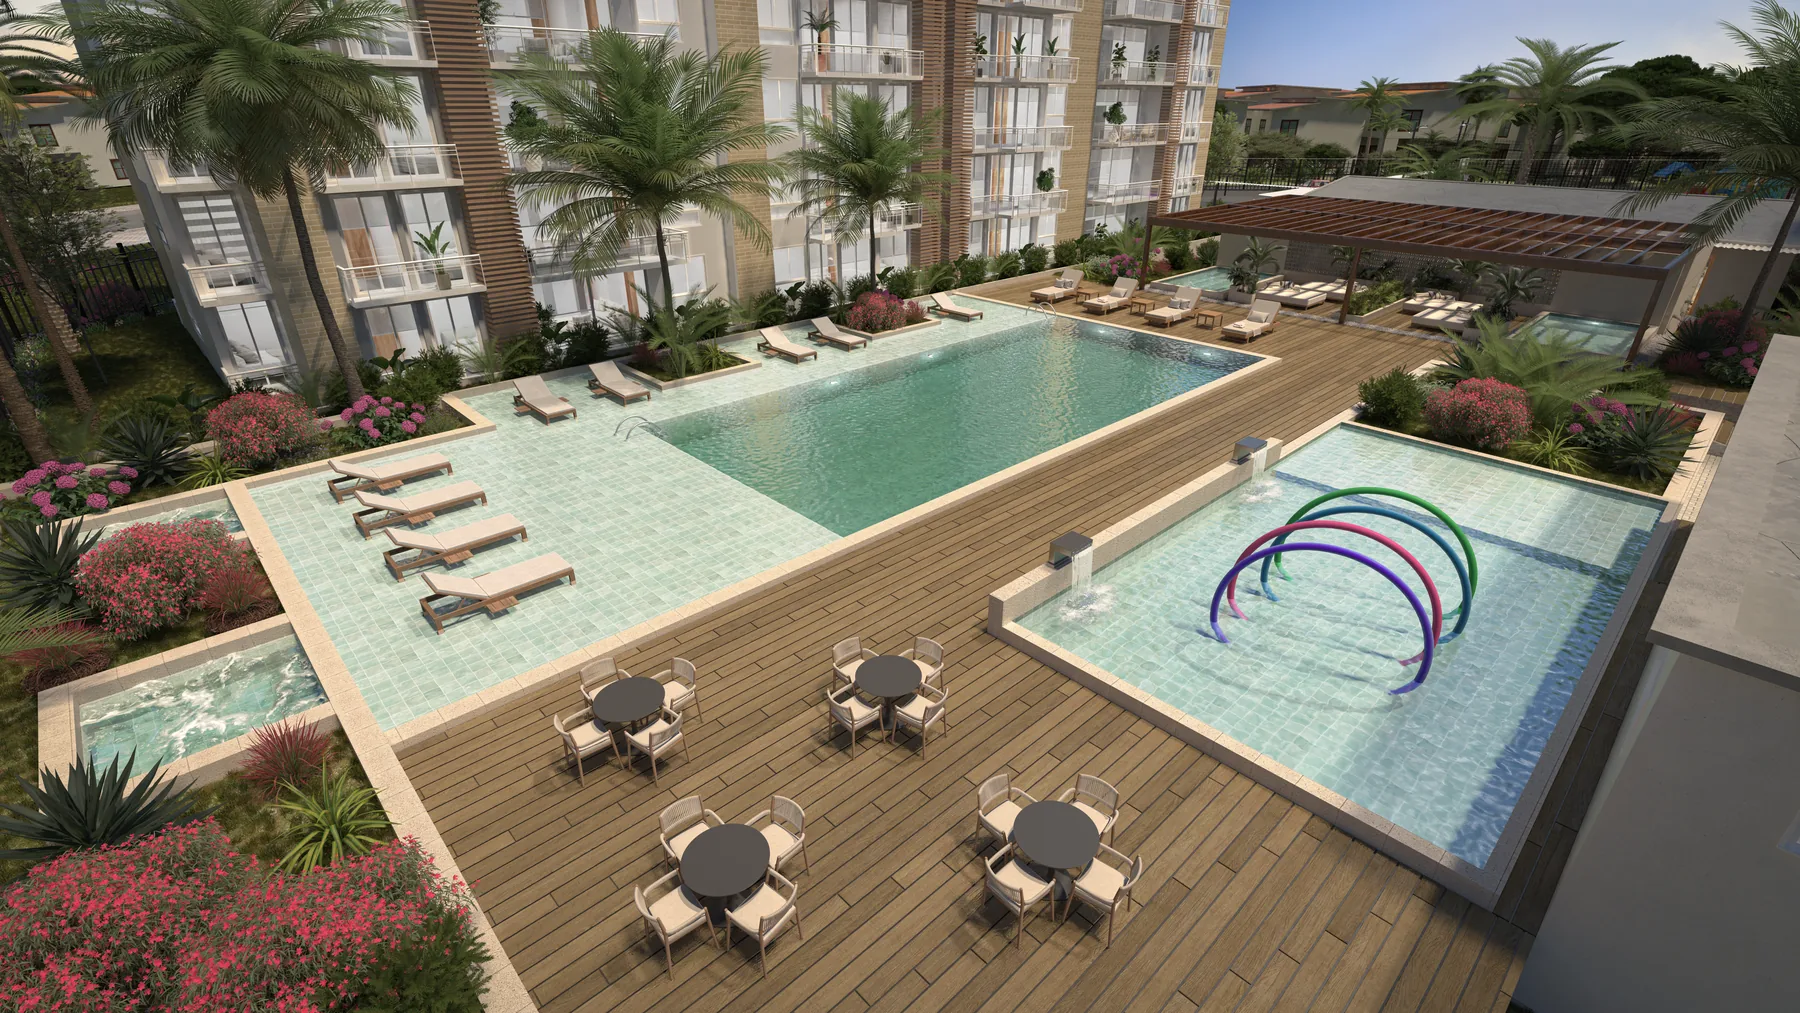
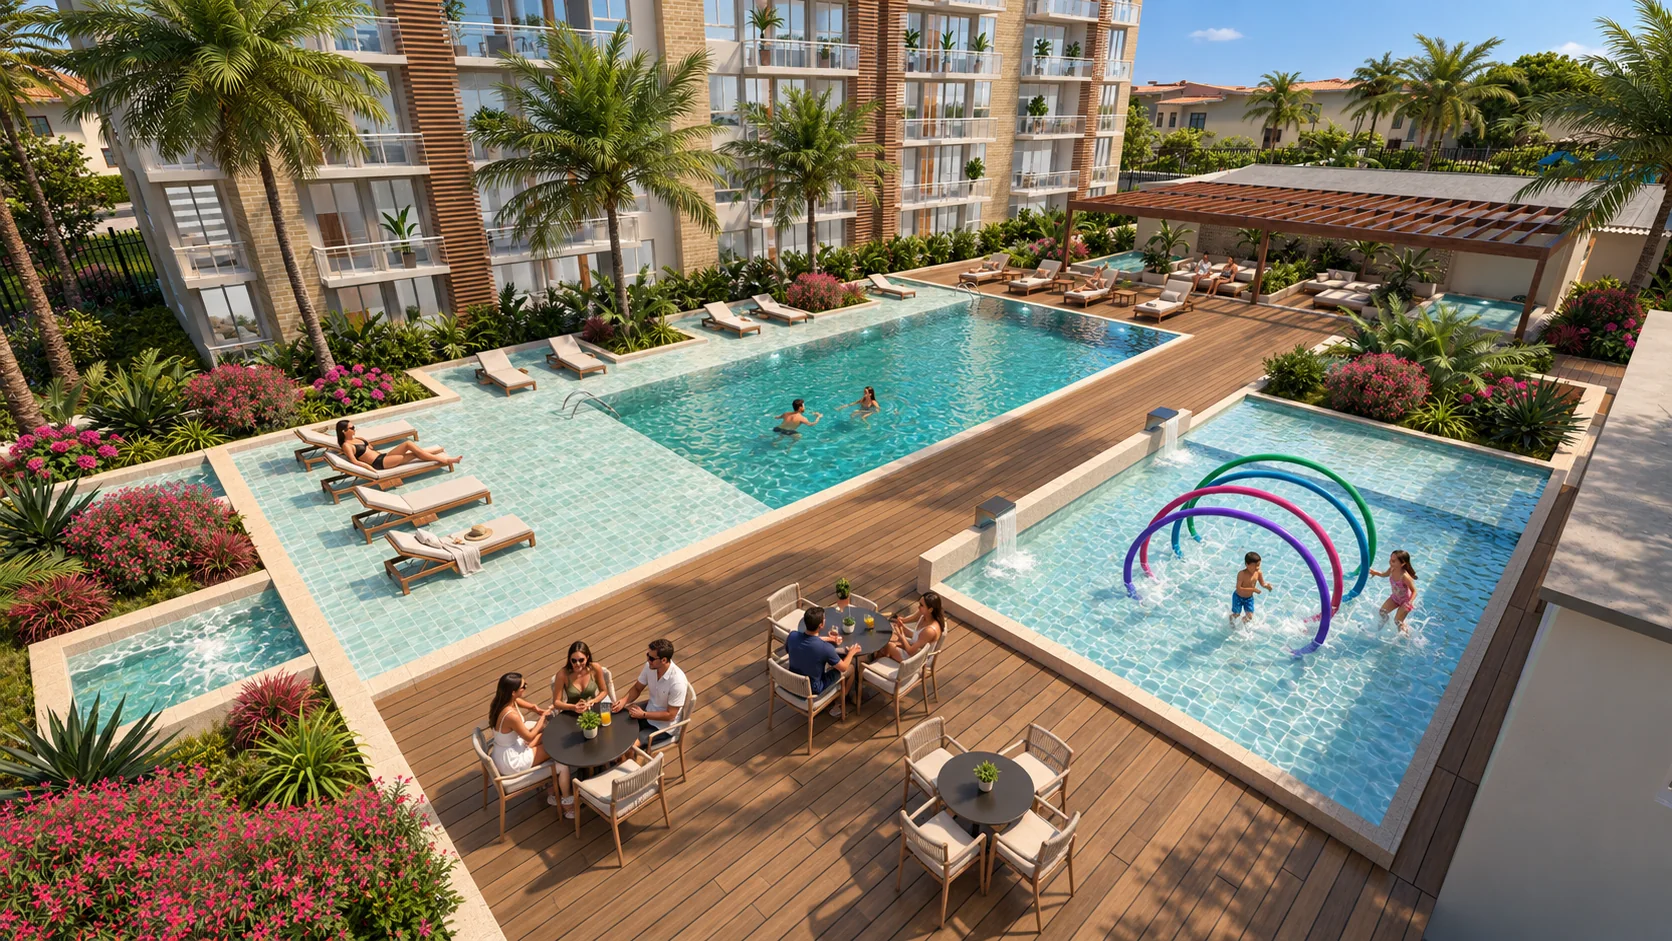
Divertido: render nuevo de zonas húmedas e íconos propios de sus cuatro zonas
Claude-Session: https://claude.ai/code/session_01DbQSkjawgEFXXi1NfzF7dw

diff --git a/index.html b/index.html
@@ -100,7 +100,7 @@
   <link rel="preconnect" href="https://fonts.googleapis.com" />
   <link rel="preconnect" href="https://fonts.gstatic.com" crossorigin />
   <link href="https://fonts.googleapis.com/css2?family=Poppins:ital,wght@0,300;0,400;0,500;0,600;0,700;0,800;1,300&display=swap" rel="stylesheet" />
-  <link rel="stylesheet" href="assets/css/styles.css?v=20261004" />
+  <link rel="stylesheet" href="assets/css/styles.css?v=20261004b" />
 </head>
 <body>
 
@@ -362,22 +362,21 @@
             <h3>Zonas húmedas familiares</h3>
             <!-- las zonas del ambiente. Las que tienen render son botones:
                  al tocarlas, el visor muestra la imagen donde aparecen.
-                 Estas cuatro aún no tienen ícono propio y usan el del
-                 ambiente. -->
+                 Los íconos salen de la pieza de marca "Divertido". -->
             <ul class="zdet">
-              <li><button type="button" class="zdet-item" data-zimg="piscinas"><img src="assets/img/icono-divertido.png" alt="" width="132" height="132" loading="lazy" /><span>Piscina Honda</span></button></li>
-              <li><button type="button" class="zdet-item" data-zimg="piscinas"><img src="assets/img/icono-divertido.png" alt="" width="132" height="132" loading="lazy" /><span>Piscina Panda</span></button></li>
-              <li><button type="button" class="zdet-item" data-zimg="piscinas"><img src="assets/img/icono-divertido.png" alt="" width="132" height="132" loading="lazy" /><span>Zona de Asoleadoras</span></button></li>
-              <li><span class="zdet-item"><img src="assets/img/icono-divertido.png" alt="" width="132" height="132" loading="lazy" /><span>Zona de Hamacas</span></span></li>
+              <li><button type="button" class="zdet-item" data-zimg="piscinas"><img src="assets/img/icono-piscina-honda.png" alt="" width="132" height="132" loading="lazy" /><span>Piscina Honda</span></button></li>
+              <li><button type="button" class="zdet-item" data-zimg="piscinas"><img src="assets/img/icono-piscina-panda.png" alt="" width="132" height="132" loading="lazy" /><span>Piscina Panda</span></button></li>
+              <li><button type="button" class="zdet-item" data-zimg="piscinas"><img src="assets/img/icono-asoleadoras.png" alt="" width="132" height="132" loading="lazy" /><span>Zona de Asoleadoras</span></button></li>
+              <li><span class="zdet-item"><img src="assets/img/icono-hamacas.png" alt="" width="132" height="132" loading="lazy" /><span>Zona de Hamacas</span></span></li>
             </ul>
           </div>
           <div class="zviewer" data-zviewer>
             <div class="zviewer-stage">
-              <figure class="zviewer-fig is-shown" data-zfig="piscinas"><img src="assets/img/divertido-1.webp" alt="Piscinas de Cielo con deck en madera, solárium y juegos de agua" width="1800" height="1013" loading="lazy" /><figcaption>Piscinas y zona de asoleadoras</figcaption></figure>
+              <figure class="zviewer-fig is-shown" data-zfig="piscinas"><img src="assets/img/divertido-1.webp" alt="Zonas húmedas de Cielo: piscina con asoleadoras dentro del agua, piscina de niños con arcos de colores, deck en madera con mesas y pérgola, entre palmas y jardines" width="1672" height="941" loading="lazy" /><figcaption>Piscinas y zona de asoleadoras</figcaption></figure>
               <figure class="zviewer-fig" data-zfig="aerea"><img src="assets/img/divertido-2.webp" alt="Vista aérea de las zonas húmedas de Cielo, con piscinas, jacuzzis, pérgolas y cancha de vóley playa" width="1477" height="1065" loading="lazy" /><figcaption>Zonas húmedas, vista aérea</figcaption></figure>
             </div>
             <div class="zviewer-thumbs">
-              <button type="button" class="zviewer-thumb is-on" data-zimg="piscinas" aria-label="Ver las piscinas"><img src="assets/img/divertido-1.webp" alt="" width="1800" height="1013" loading="lazy" /></button>
+              <button type="button" class="zviewer-thumb is-on" data-zimg="piscinas" aria-label="Ver las piscinas"><img src="assets/img/divertido-1.webp" alt="" width="1672" height="941" loading="lazy" /></button>
               <button type="button" class="zviewer-thumb" data-zimg="aerea" aria-label="Ver la vista aérea de las zonas húmedas"><img src="assets/img/divertido-2.webp" alt="" width="1477" height="1065" loading="lazy" /></button>
             </div>
           </div>
@@ -984,7 +983,7 @@
     <p class="footer-copy">© 2026 Cielo Apartamentos · Construcciones Urbanas. Todos los derechos reservados.</p>
   </footer>
 
-  <script src="assets/js/main.js?v=20261004" defer></script>
+  <script src="assets/js/main.js?v=20261004b" defer></script>
   <!-- autoajusta la altura del iframe del calendario (#agenda) al contenido -->
   <script src="https://api.leadconnectorhq.com/js/form_embed.js" type="text/javascript"></script>
 </body>
